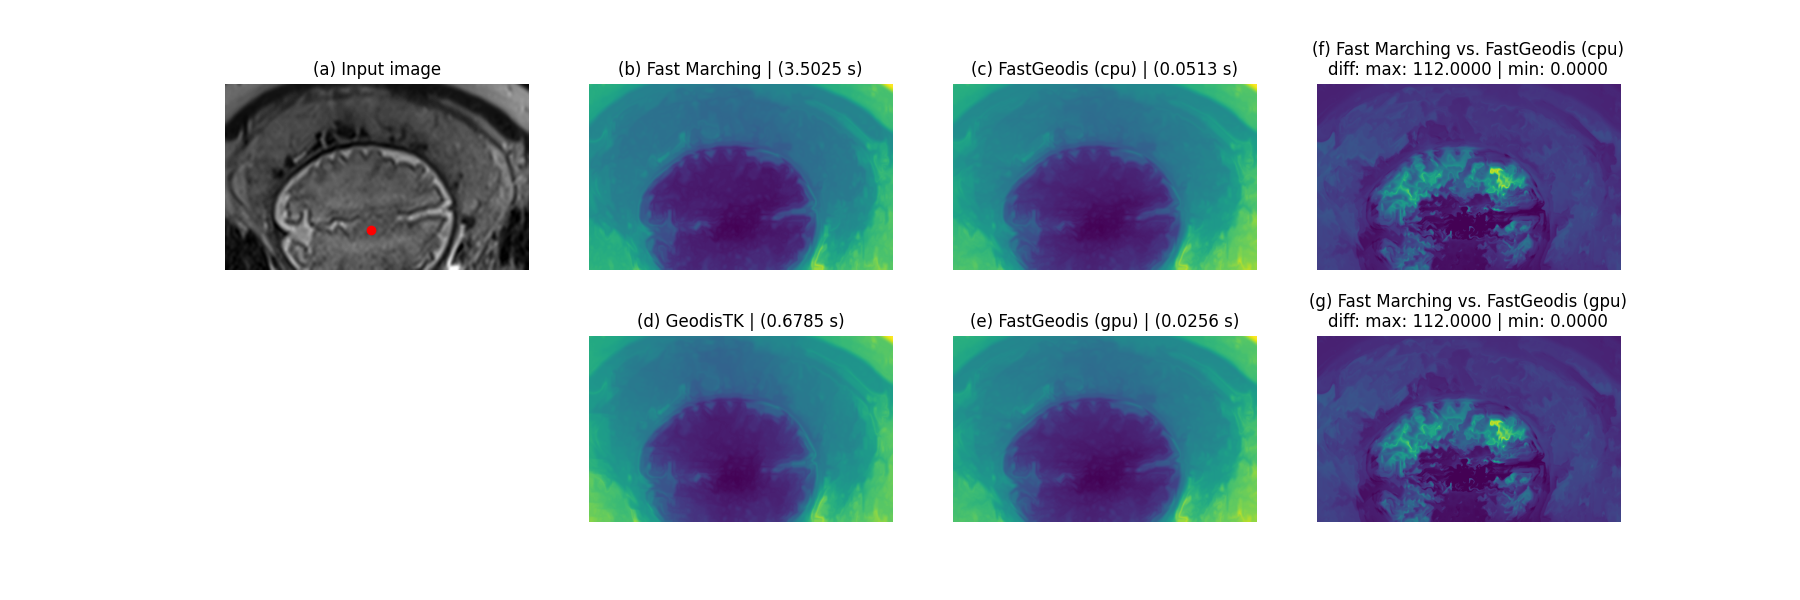
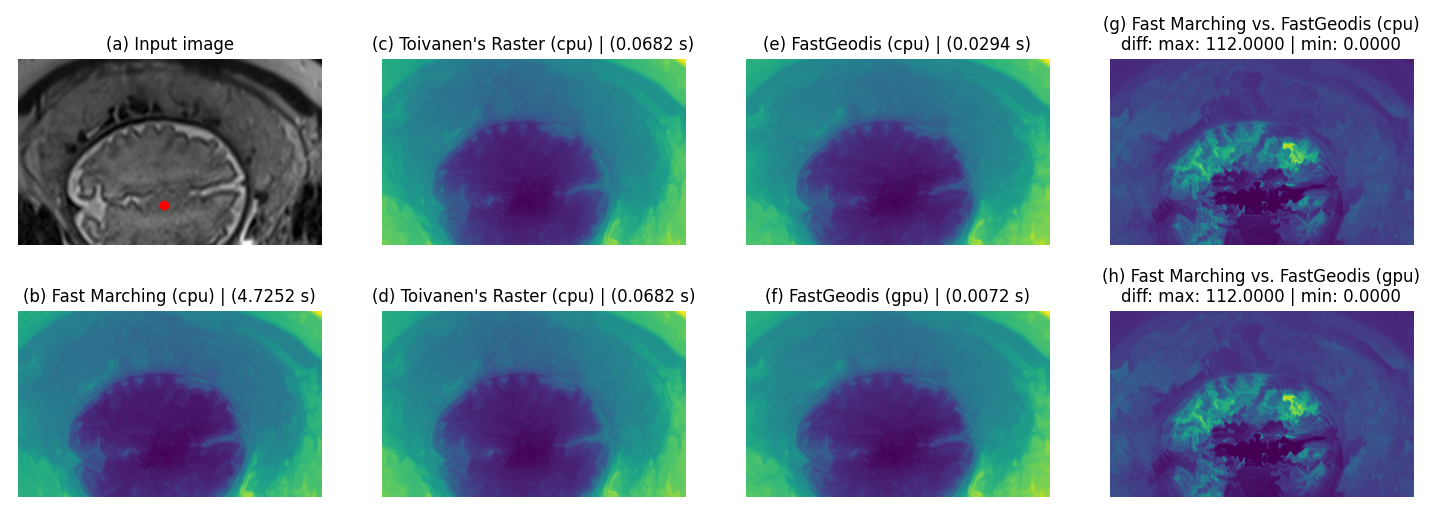
update docs with addition of Fast March description

diff --git a/README.md b/README.md
@@ -73,6 +73,17 @@ or (on conda environments with existing installation of PyTorch with CUDA)
 | Toivanen's Geodesic Symmetric Filtering 2D   |  Toivanen's geodesic symmetric filtering for CPU [2, 9]          |      [FastGeodis.GSF2d_toivanen](https://fastgeodis.readthedocs.io/en/latest/api_docs.html#FastGeodis.GSF2d_toivanen)         |
 | Toivanen's Geodesic Symmetric Filtering 3D   |  Toivanen's geodesic symmetric filtering for CPU [2, 9]          |      [FastGeodis.GSF3d_toivanen](https://fastgeodis.readthedocs.io/en/latest/api_docs.html#FastGeodis.GSF3d_toivanen)         |
 
+## Fast Marching Implementations for CPU based on [4] and [10]
+
+| Method | Description | Documentation |
+|--------|-------------|---------------|
+| Fast Marching Generalised Geodesic Distance 2D   |  Fast Marching generalised geodesic distance transform for CPU [9]          |      [FastGeodis.generalised_geodesic2d_fastmarch](https://fastgeodis.readthedocs.io/en/latest/api_docs.html#FastGeodis.generalised_geodesic2d_fastmarch)         |
+| Fast Marching Generalised Geodesic Distance 3D   |  Fast Marching generalised geodesic distance transform for CPU [9]          |      [FastGeodis.generalised_geodesic3d_fastmarch](https://fastgeodis.readthedocs.io/en/latest/api_docs.html#FastGeodis.generalised_geodesic3d_fastmarch)         |
+| Fast Marching Signed Generalised Geodesic Distance 2D   |  Fast Marching signed generalised geodesic distance transform for CPU/GPU [9]          |      [FastGeodis.signed_generalised_geodesic2d_fastmarch](https://fastgeodis.readthedocs.io/en/latest/api_docs.html#FastGeodis.signed_generalised_geodesic2d_fastmarch)         |
+| Fast Marching Signed Generalised Geodesic Distance 3D   |  Fast Marching signed generalised geodesic distance transform for CPU [9]          |      [FastGeodis.signed_generalised_geodesic3d_fastmarch](https://fastgeodis.readthedocs.io/en/latest/api_docs.html#FastGeodis.signed_generalised_geodesic3d_fastmarch)         |
+| Fast Marching Geodesic Symmetric Filtering 2D   |  Fast Marching geodesic symmetric filtering for CPU [2, 9]          |      [FastGeodis.GSF2d_fastmarch](https://fastgeodis.readthedocs.io/en/latest/api_docs.html#FastGeodis.GSF2d_fastmarch)         |
+| Fast Marching Geodesic Symmetric Filtering 3D   |  Fast Marching geodesic symmetric filtering for CPU [2, 9]          |      [FastGeodis.GSF3d_fastmarch](https://fastgeodis.readthedocs.io/en/latest/api_docs.html#FastGeodis.GSF3d_fastmarch)         |
+
 # Example usage
 
 ### Fast Geodesic Distance Transform
@@ -185,3 +196,5 @@ FastGeodis (CPU/GPU) is compared with existing GeodisTK ([https://github.com/tai
 - [8] [https://www.tensorflow.org/addons/api_docs/python/tfa/image/euclidean_dist_transform](https://www.tensorflow.org/addons/api_docs/python/tfa/image/euclidean_dist_transform)
 
 - [9] Toivanen, Pekka J. "New geodosic distance transforms for gray-scale images." Pattern Recognition Letters 17.5 (1996): 437-450.
+
+- [10] Sethian, James A. "Fast marching methods." SIAM review 41.2 (1999): 199-235.

diff --git a/docs/source/methodology.rst b/docs/source/methodology.rst
@@ -66,6 +66,10 @@ In this method, a 2D pass operates as a raster scan that is sequentially applied
 
 For both forward and backward pass, an L shaped kernel is used in a single raster scan pass to propagate distance in forward and backward direction. In particular, this L shaped kernel along with the sequential pass limits this method to non-parallelisable CPU implementation, which we include in **FastGeodis** for comparison purposes.
 
+Sethian's Fast Marching-based Non-parallelisable Generalised Geodesic Distance Transform
+****************************************************************************************
+In addition to the above methods, we also implement fast marching based non-parallelisable Geodesic distance transform method from :cite:p:`sethian1999fast` using CPU. This method is used for comparison of accuracy as well as execution of the parallelised Geodesic distance transform algorithm presented above. It serves as golden reference as this method provides accuracy distance transform calculation. While being accurate, it is computationally expensive taking orders of magnitude more time and compute. 
+
 Performance Improvements
 ################################
 FastGeodis (CPU/GPU) is compared with existing GeodisTK (https://github.com/taigw/GeodisTK) in terms of execution speed as well as accuracy. All our experiments were evaluated on Nvidia GeForce Titan X (12 GB) with 6-Core Intel Xeon E5-1650 CPU. We present our results below:
@@ -103,6 +107,7 @@ For 3D images, **FastGeodis** leads to a speed-up of upto 3x on CPU and upto 74x
 
 Accuracy
 *******************
+For accuracy, we use Fast Marching-based implementation as golden reference. These results are visualised below for visual comparison as well as quantitative comparison using joint histograms.
 
 2D Image Data
 ================
